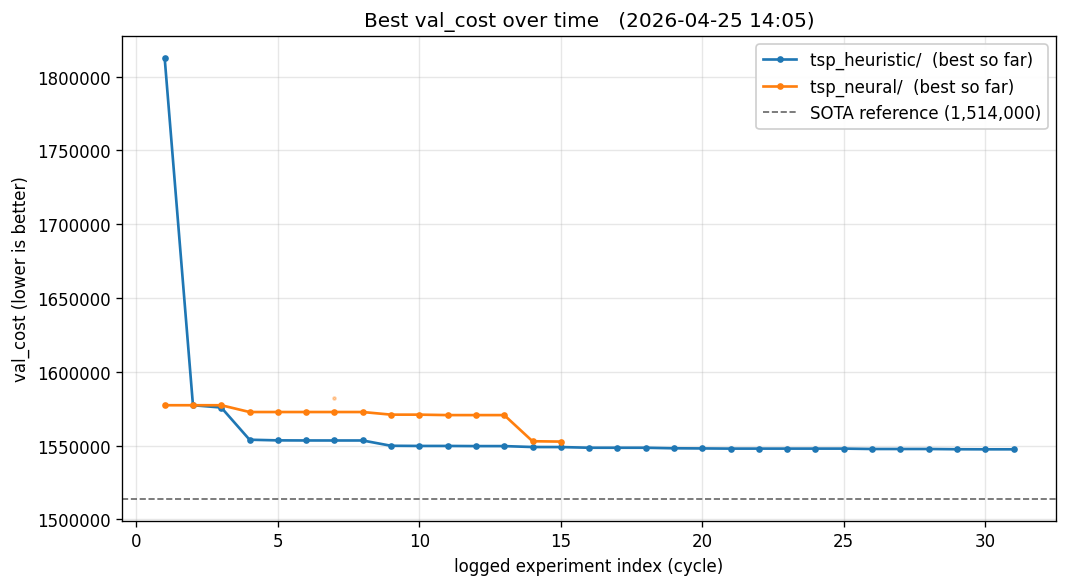
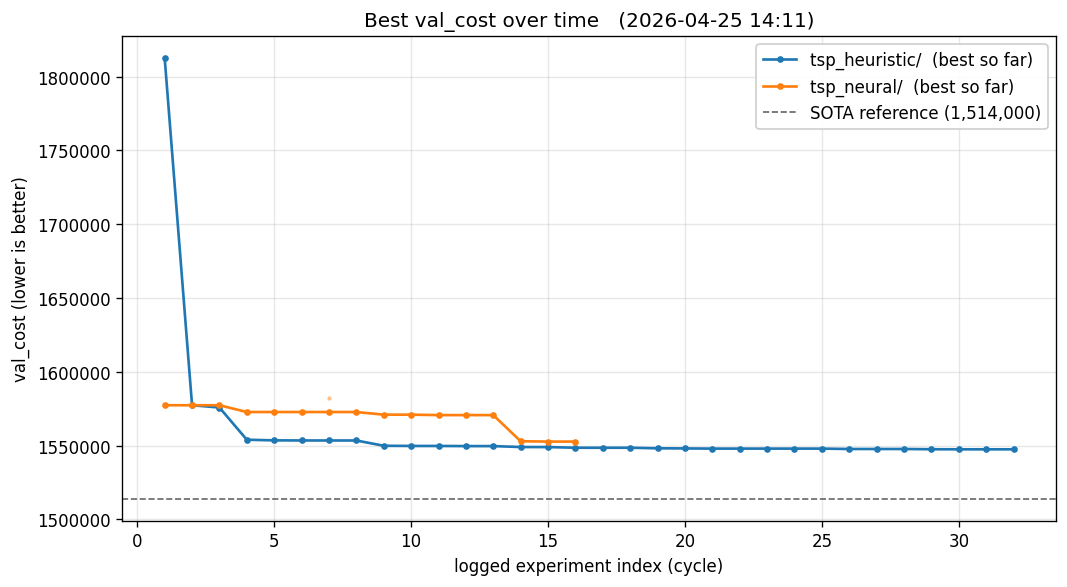
docs: status + chart refresh (auto-tick 14:11)
Cycle counts ticked: heuristic 31→32, neural 15→16. Best val_costs
unchanged (heuristic 1,547,421; neural 1,552,660).

Notable since last tick (in subprojects' results.tsv, not surfaced
in README):
- heuristic: LNS-prime8 (bias 4→8) NEW BEST −53; LNS-prime16 too
  narrow (+577); LNS-prime8/frac15 stack hurts (+695).
- neural: ILS 2×double-bridge —234 vs cycle 14; C1 VND big-win
  description (although kept val_cost is slightly above prior best);
  R2 MSE-on-gain retrain regressed (BCE > MSE for within-K ranking).

Chart regenerated and changed; bytes diff in progress.png.

diff --git a/README.md b/README.md
@@ -65,13 +65,13 @@ Their commits will interleave in `git log`. `results.tsv`,
 
 ## Status
 
-*As of 2026-04-25 14:05 EDT. SOTA = 1,514,000 (Santa 2018 top
+*As of 2026-04-25 14:11 EDT. SOTA = 1,514,000 (Santa 2018 top
 public-LB). Badge = `100% − gap`. Higher is better.*
 
 | Loop | Badge | Best `val_cost` | Cycles |
 |---|---|---|---|
-| `tsp_heuristic/` | `[ 97.79% SOTA ]` | 1,547,421 | 31 |
-| `tsp_neural/`    | `[ 97.45% SOTA ]` | 1,552,660 | 15 |
+| `tsp_heuristic/` | `[ 97.79% SOTA ]` | 1,547,421 | 32 |
+| `tsp_neural/`    | `[ 97.45% SOTA ]` | 1,552,660 | 16 |
 
 ![Progress](progress.png)
 
